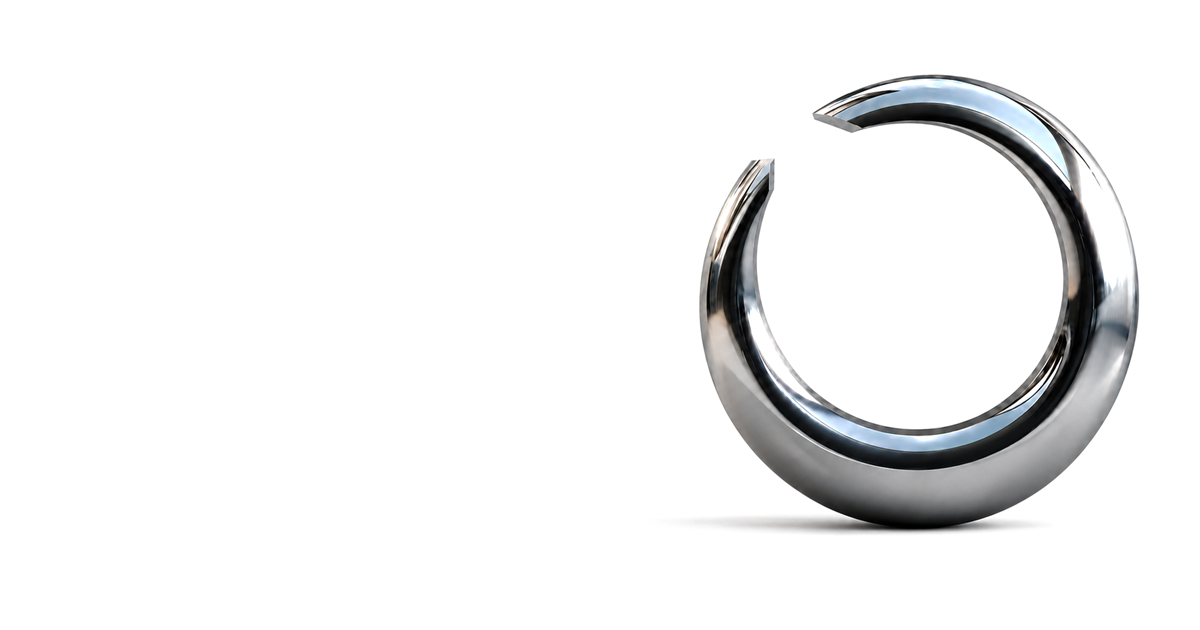
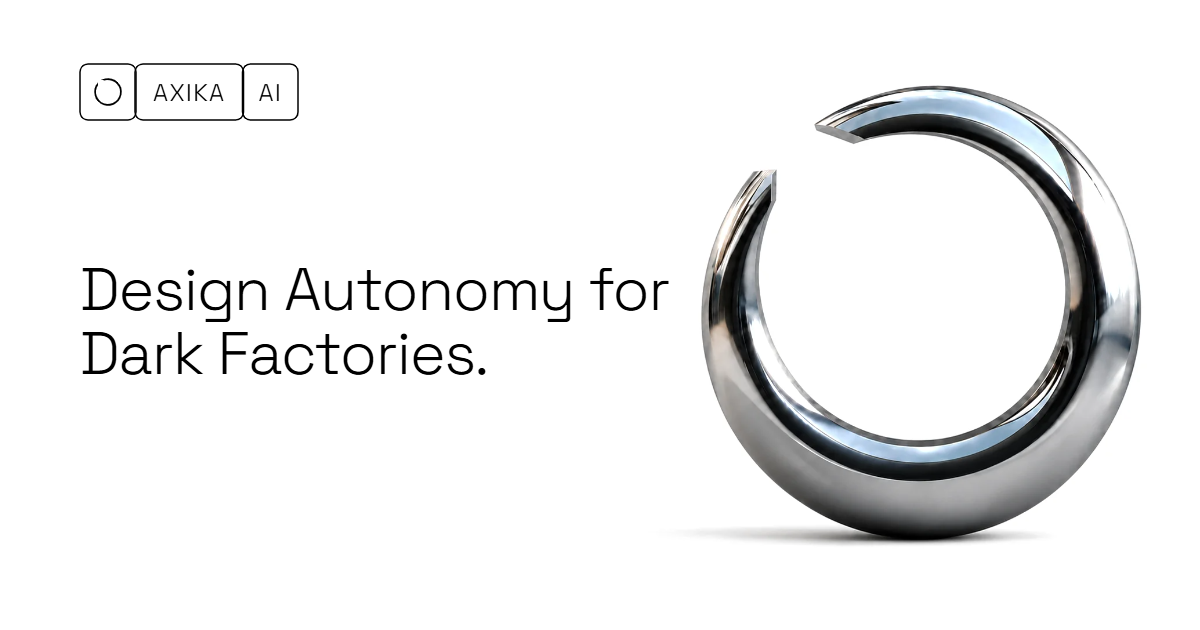
Add SEO and answer-engine layer
- Structured-data graph (Organization, Person, WebSite, WebPage) on
  the homepage, rendered at build time
- robots.txt with explicit AI-crawler allowances; llms.txt and
  llms-full.txt summaries
- New social preview image, favicon set and web manifest
- noindex on legal pages and the new 404; sitemap limited to the
  homepage; robots and security headers
- IndexNow submission on production deploys
- Definitional sentence in the build section; LinkedIn and GitHub
  links in the footer

diff --git a/netlify/plugins/indexnow/index.js b/netlify/plugins/indexnow/index.js
@@ -1,0 +1,26 @@
+// Submits the homepage to IndexNow after each production deploy, so Bing
+// (which feeds ChatGPT search) picks up changes within hours instead of weeks.
+// Never fails the build: any error is logged and swallowed.
+const KEY = 'a2144ea5ea024422912c60f75ccbc707';
+
+export const onSuccess = async () => {
+	if (process.env.CONTEXT !== 'production') {
+		console.log('IndexNow: skipped (not a production deploy)');
+		return;
+	}
+	try {
+		const res = await fetch('https://api.indexnow.org/IndexNow', {
+			method: 'POST',
+			headers: { 'Content-Type': 'application/json; charset=utf-8' },
+			body: JSON.stringify({
+				host: 'axika.ai',
+				key: KEY,
+				keyLocation: `https://axika.ai/${KEY}.txt`,
+				urlList: ['https://axika.ai/'],
+			}),
+		});
+		console.log(`IndexNow: submitted, status ${res.status}`);
+	} catch (err) {
+		console.log(`IndexNow: submission failed (${err.message}) — ignoring`);
+	}
+};
